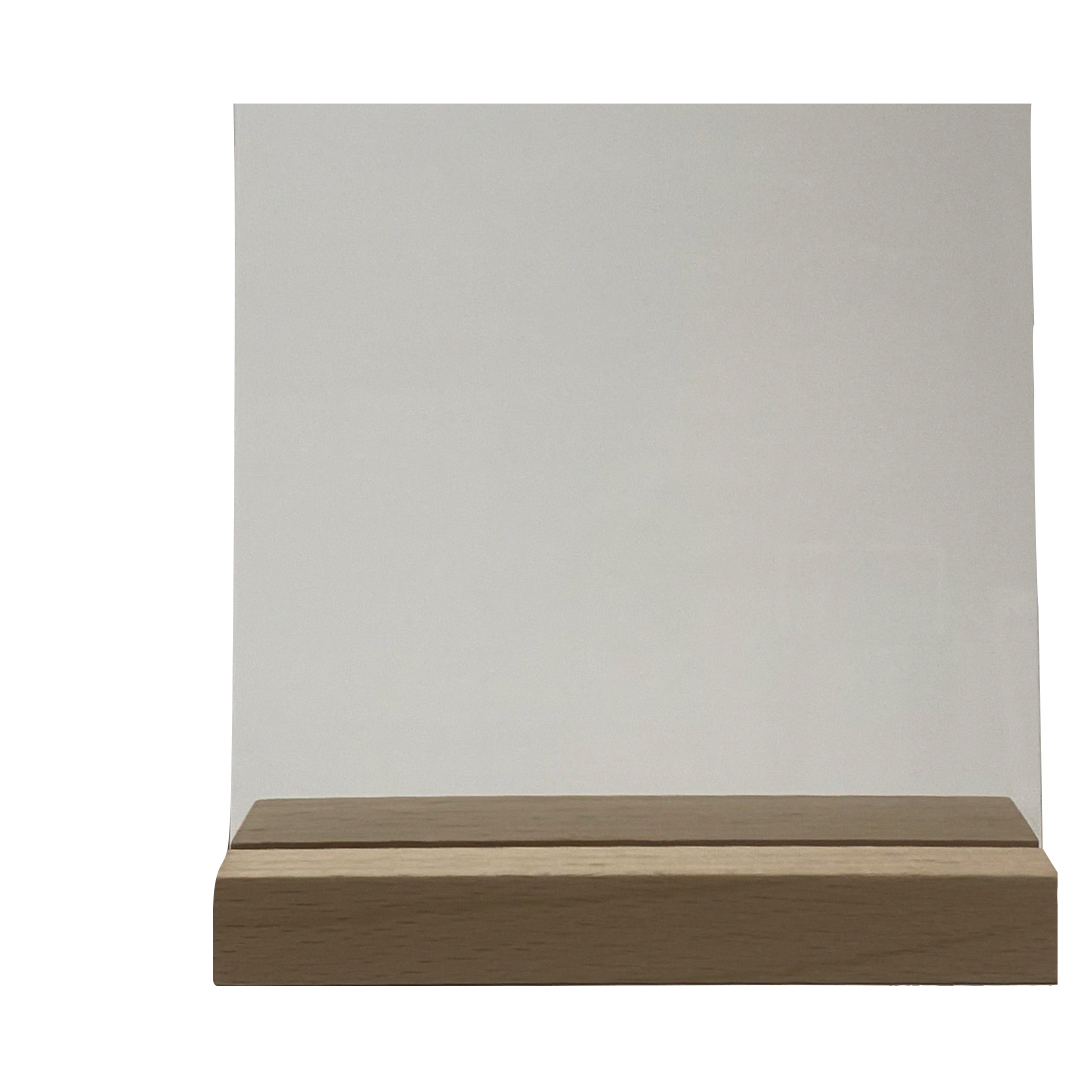
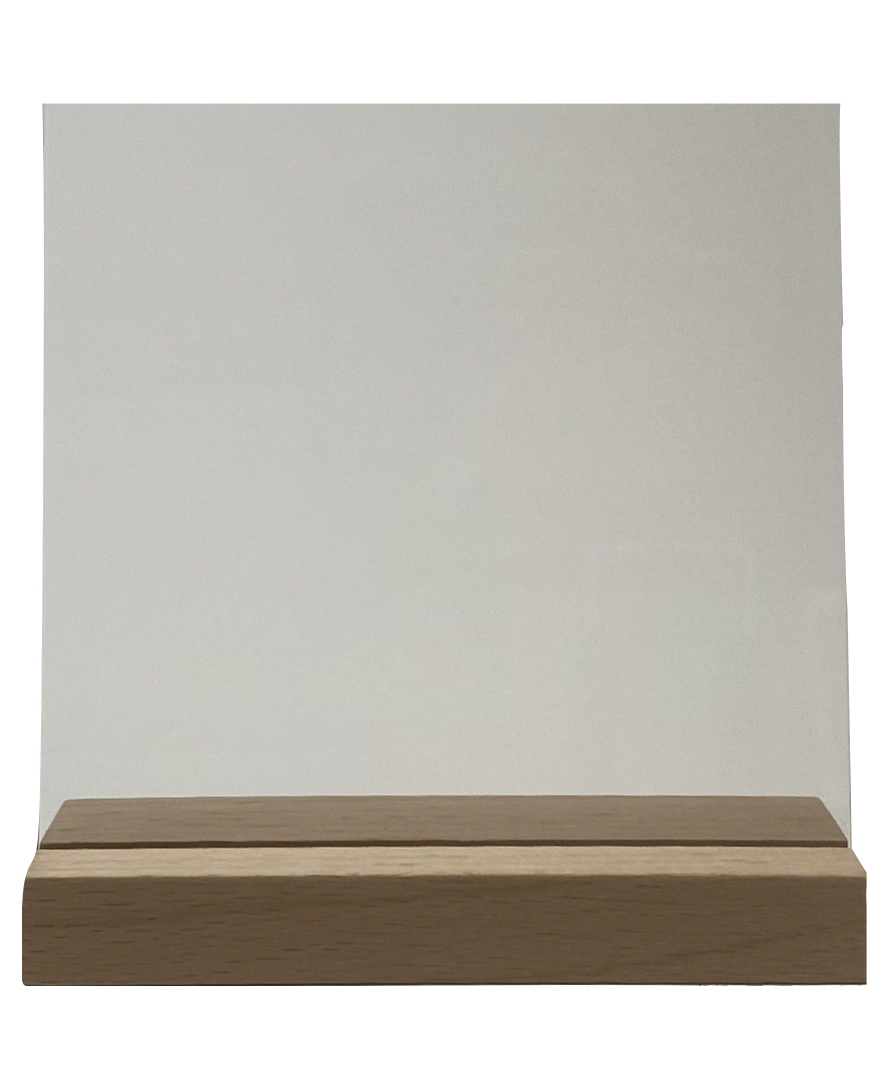
Scale product image size to 0.95 relative to mouse coordinates.

diff --git a/src/pages/start-design.tsx b/src/pages/start-design.tsx
@@ -26,7 +26,7 @@ const DesignGift = () => {
     const [lastBrushSize, setLastBrushSize] = useState<number>(currentBrushSize);
     const [lastBrushColor, setLastBrushColor] = useState<string>(currentBrushColor);
     const [paths, setPaths] = useState<Array<{points: Array<{x: number; y: number}>, brushSize: number, brushColor: string}>>([]);
-    const [canvasSize, setCanvasSize] = useState<{width: number; height: number}>({width: 460, height: 420});
+    const [canvasSize, setCanvasSize] = useState<{width: number; height: number}>({width: 550, height: 490});
 
     const saveCanvasToFirebase = async () => {
         try {
@@ -233,8 +233,8 @@ const DesignGift = () => {
                                 <div className={DesignCSS.designCanvas}>
                                     <div>
                                         <Canvas
-                                            width={460}
-                                            height={420}
+                                            width={550}
+                                            height={490}
                                             isBrushActive={brushActive}
                                             setBrushSize={handleBrushSizeChange}
                                             setBrushColor={handleBrushColorChange}

diff --git a/src/components/Canvas/Canvas.tsx b/src/components/Canvas/Canvas.tsx
@@ -31,6 +31,13 @@ const Canvas: React.FC<CanvasProps> = ({width, height, paths, setPaths}) => {
     const isEraserActive = useSelector((state: RootState) => state.eraser.isEraserActive);
     const [isErasing, setIsErasing] = useState(false);
 
+    const adjustForScale = (clientX: number, clientY: number, svgRect: DOMRect, scale: number) => {
+        return {
+            x: (clientX - svgRect.left) / scale,
+            y: (clientY - svgRect.top) / scale,
+        };
+    };
+
     const startErasing = (event: React.MouseEvent<SVGSVGElement, MouseEvent>) => {
         if (!isEraserActive) return;
         setIsErasing(true);
@@ -42,10 +49,8 @@ const Canvas: React.FC<CanvasProps> = ({width, height, paths, setPaths}) => {
 
     const handleMouseMove = (event: React.MouseEvent<SVGSVGElement, MouseEvent>) => {
         const svgRect = event.currentTarget.getBoundingClientRect();
-        const newPoint: Point = {
-            x: event.clientX - svgRect.left,
-            y: event.clientY - svgRect.top,
-        };
+        const scale = 0.95;
+        const newPoint = adjustForScale(event.clientX, event.clientY, svgRect, scale);
 
         setMousePosition(newPoint);
 

diff --git a/src/components/Brush/BrushPreviewSVG.tsx b/src/components/Brush/BrushPreviewSVG.tsx
@@ -26,6 +26,8 @@ const BrushPreviewSVG: React.FC<BrushPreviewSVGProps> = ({
                 position: 'absolute',
                 top: 0,
                 left: 0,
+                // margin- left: 52.5px;
+                // margin - top: 12.5px;
                 pointerEvents: 'none',
             }}
         >
@@ -37,7 +39,7 @@ const BrushPreviewSVG: React.FC<BrushPreviewSVGProps> = ({
                     fill={brushColor}
                 />
             )}
-        </svg>
+        </svg >
     );
 };
 

diff --git a/src/styles/design.module.css b/src/styles/design.module.css
@@ -122,12 +122,13 @@
     height: 590px;
     position: static;
     z-index: 1;
+    transform: scale(0.95);
 }
 
 .designCanvas {
     z-index: 2;
-    margin-left: 153px;
-    margin-top: 45px;
+    margin-left: 52.5px;
+    margin-top: 12.5px;
 }
 
 .designToolsContainer {
